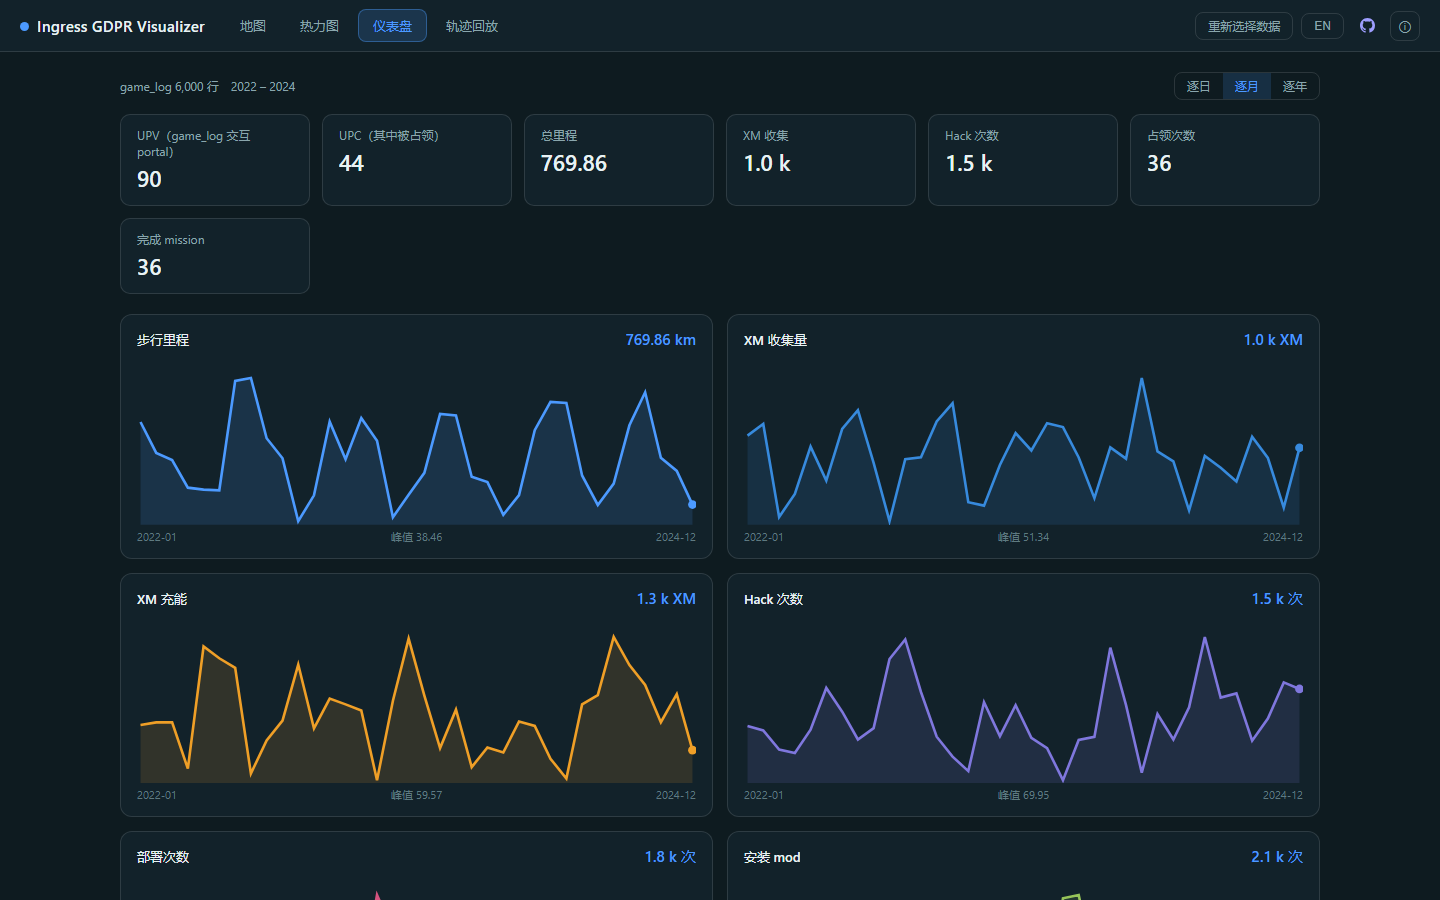
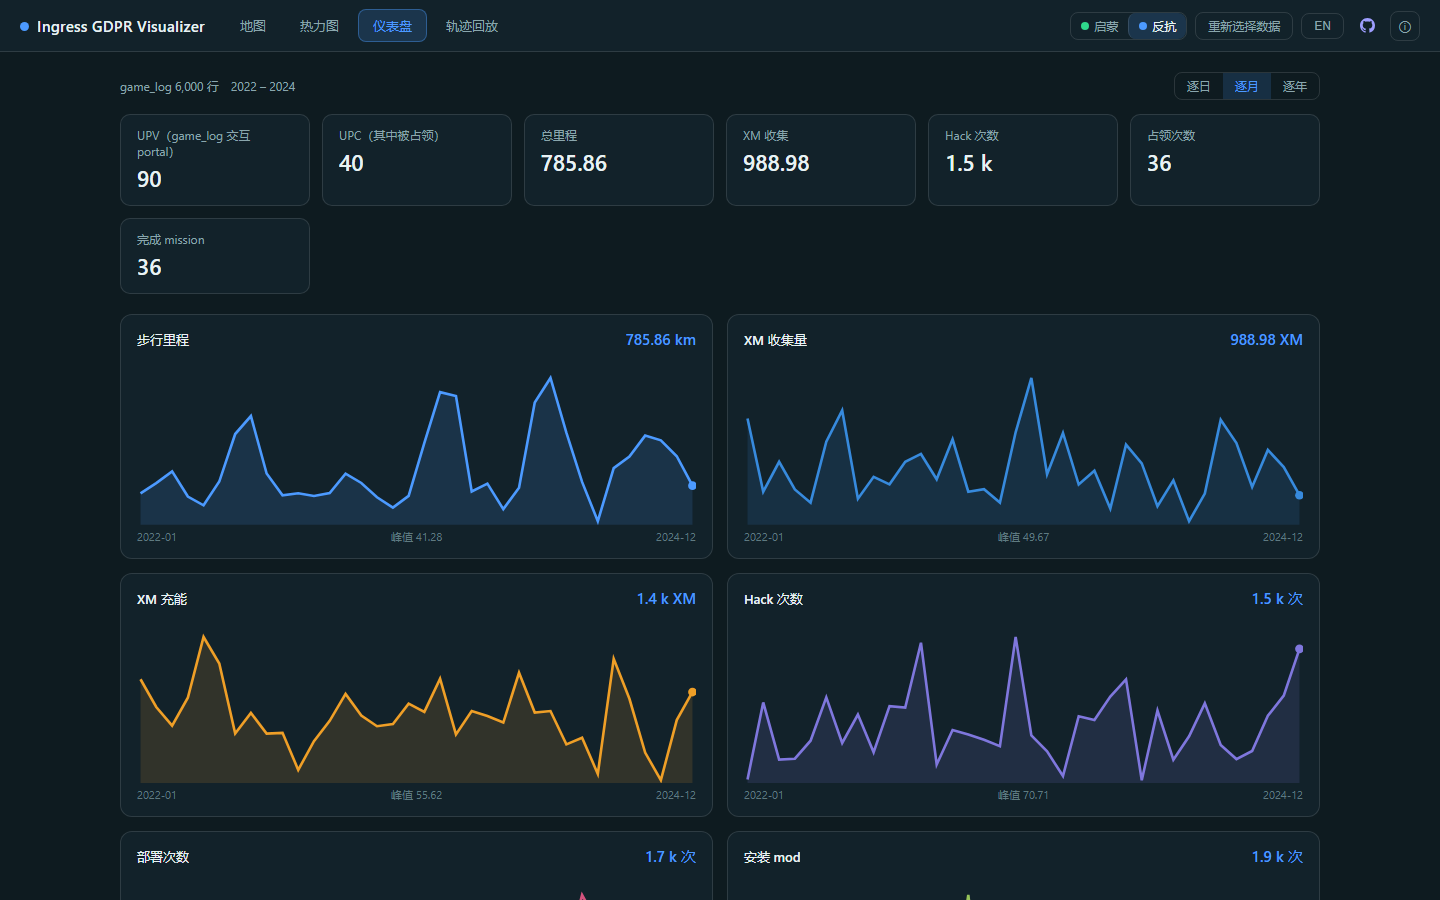
docs: refresh README and screenshots
- feature table now carries a date column and doubles as the changelog
- document trajectory playback and the faction theme
- drop the WIP IITC plugin section (kept as a single ROADMAP line) and
  dev-only script entries
- re-capture the six screenshots with synthetic demo data

diff --git a/README_EN.md b/README_EN.md
@@ -1,6 +1,6 @@
 # Ingress GDPR Visualizer
 
-> Turn your Niantic Ingress personal data export (GDPR export) into an interactive map, heatmap and dashboard.
+> Turn your Niantic Ingress personal data export (GDPR export) into an interactive map, heatmap, dashboard and trajectory playback.
 > **All parsing happens locally — your data is never uploaded to any server.**
 
 [中文文档](README.md) · [English](#screenshots)
@@ -9,7 +9,7 @@ This is a fan-made project and **contains no personal data**. You pick your own 
 
 ## Screenshots
 
-The screenshots below use **synthetic Guangzhou demo data** (generated by `npm run demo:data` — entirely fictional, contains no real personal data).
+The screenshots below use **synthetic Guangzhou demo data** (entirely fictional, contains no real personal data).
 
 | Map | Heatmap |
 | --- | --- |
@@ -19,23 +19,26 @@ The screenshots below use **synthetic Guangzhou demo data** (generated by `npm r
 | --- | --- |
 | ![Dashboard](docs/screenshots/dashboard.png) | ![Badges](docs/screenshots/dashboard-badges.png) |
 
-| Playback (placeholder) | Onboarding |
+| Playback | Onboarding |
 | --- | --- |
-| ![Playback placeholder](docs/screenshots/playback.png) | ![Data picker](docs/screenshots/onboarding.png) |
+| ![Playback](docs/screenshots/playback.png) | ![Data picker](docs/screenshots/onboarding.png) |
 
-## Features
+## Features & changelog
 
-| Page | Content |
-| --- | --- |
-| **Map** | UPV / UPC layers; 13 event categories (full real data, **zero sampling**); OPR suggested locations; Intel dark / light basemaps; per-portal hover stats (hacks, deploys, upgrades, mods, captures) |
-| **Heatmap** | Portal activity weighted by hacks / captures / deploys / upgrades, with a ticked colorbar; metrics can stack |
-| **Dashboard** | Up to 24 time series (distance, XM, MU, holding days, OPR...), daily / monthly / yearly views; hover for value, MoM and YoY; stat cards, Badges wall, Comm mentions and profile text |
-| **Playback** | Placeholder page (see ROADMAP) |
-| **General** | 中文 / English toggle, GitHub link and fan-site disclaimer popover, "change data" anytime, dark theme |
+Rows are ordered by date; this table doubles as the project's changelog (dates are when each feature landed).
+
+| Date | Page | Content |
+| --- | --- | --- |
+| 2026-11-12 | **Map** | UPV / UPC layers; 13 event categories (full real data, **zero sampling**); OPR suggested locations; Intel dark / light basemaps; per-portal hover stats (hacks, deploys, upgrades, mods, captures) |
+| 2026-11-12 | **Heatmap** | Portal activity weighted by hacks / captures / deploys / upgrades, with a ticked colorbar; metrics can stack |
+| 2026-11-12 | **Dashboard** | Up to 24 time series (distance, XM, MU, holding days, OPR...), daily / monthly / yearly views; hover for value, MoM and YoY; stat cards, Badges wall, Comm mentions and profile text |
+| 2026-11-12 | **General** | 中文 / English toggle, GitHub link and fan-site disclaimer popover, "change data" anytime, dark theme |
+| 2026-11-14 | **Playback** | Time-compression rates (1 hour / day / week / month per second); no interpolation across long gaps, dwell-stop aggregation; activity calendar and scrubber heat strip, single-day replay, follow-playhead, edge direction + distance; event points are never sampled |
+| 2026-11-14 | **General** | Faction theme (Enlightened / Resistance — UI accent and basemap switch live) |
 
 ### Two ways to load data
 
-If no pre-generated data exists, the app opens with a **data picker** (`?setup=1` forces it):
+If no pre-generated data exists, the app opens with a **data picker**:
 
 1. **Choose the whole export folder (recommended)**: the full experience — map, heatmap, complete dashboard, Badges, OPR, Comm.
 2. **Only the `game_log` file(s)**: lightweight — map, heatmap, and up to 10 event-count curves (hacks / deploys / upgrades / captures / links / fields...). Distance, XM, MU, Badges, OPR and Comm need the other files and are unavailable in this mode.
@@ -66,7 +69,7 @@ npm run dev            # http://127.0.0.1:5173
 The first launch shows the data picker; choose your GDPR export folder. To pre-generate data (e.g. for a static deployment), run `npm run ingest` first, then:
 
 ```bash
-npm run build          # output in dist/, data/ is copied in automatically
+npm run build          # output in dist/; only the five data files the app fetches are copied
 npm run preview        # preview the production build
 ```
 
@@ -85,7 +88,6 @@ Request a **personal data export (GDPR / Data Export)** from Niantic's official 
 | `npm run preview` | Preview the production build |
 | `npm run ingest -- --src <dir> [--out <dir>]` | Preprocess a GDPR export into `data/` |
 | `npm run catalog` | Refresh `src/data/badgeCatalog.js` (badge icon URL table from ingress.plus) |
-| `npm run demo:data` / `npm run demo:shots` | Generate synthetic demo data / re-capture README screenshots |
 
 ---
 
@@ -97,15 +99,16 @@ Request a **personal data export (GDPR / Data Export)** from Niantic's official 
 ├── docs/screenshots/        # README screenshots (synthetic demo data)
 ├── scripts/
 │   ├── ingest.mjs           # CLI: raw export → data/
-│   ├── generate-demo-data.mjs
-│   ├── capture-screenshots.mjs
 │   └── fetch-badge-catalog.mjs
 ├── src/
-│   ├── lib/ingestCore.js    # parsing core (shared by Node CLI and browser)
+│   ├── lib/ingestCore.js    # parsing core (Node CLI / browser)
 │   ├── dataContext.js       # pre-generated / in-browser data paths
+│   ├── faction.js           # faction theme (UI accent + basemap palette)
+│   ├── changelog.js         # onboarding changelog
 │   ├── i18n.jsx             # Chinese / English dictionary
 │   ├── data/                # Intel / light basemap styles, badge icon URL table
-│   └── components/          # map, heatmap, dashboard, onboarding, badges...
+│   └── components/          # map, heatmap, dashboard, playback, onboarding...
+├── .github/workflows/       # CI: build + dependency audit
 ├── data/                    # ⛔ generated locally, gitignored (personal data)
 └── dist/                    # ⛔ build output, gitignored
 ```
@@ -117,15 +120,16 @@ Request a **personal data export (GDPR / Data Export)** from Niantic's official 
 - Browser mode: **no files are uploaded** — everything is parsed in the page by `src/lib/ingestCore.js`;
 - CLI mode: only reads the `--src` directory and writes to `--out`; the **source directory is never modified**;
 - `data/`, `raw/`, `node_modules/` and `dist/` are all excluded by `.gitignore`;
-- Badge icons are hotlinked from [ingress.plus](https://ingress.plus/badges) and are not stored in this repository; map tiles come from [OpenFreeMap](https://openfreemap.org/) / OpenStreetMap.
+- Badge icons are hotlinked from [ingress.plus](https://ingress.plus/badges) and are not stored in this repository; map tiles come from [OpenFreeMap](https://openfreemap.org/) / OpenStreetMap;
+- `npm run build` copies only `meta.json`, `dashboard.json`, `portals.geojson`, `events.json` and `opr.geojson` into `dist/data` (`DATA-NOTES.md` and the raw export are never copied). `meta.json` still contains the profile / Comm text, and `events.json` / `portals.geojson` contain precise locations — **these are still real personal data**.
 
-> **About deployment**: this tool is designed for **local deployment**. The build output can technically be hosted on a static server, but a GDPR export contains sensitive personal information (precise locations, timestamps, e-mail, devices), so **online deployment is not recommended**.
+> **About deployment**: this tool is designed for **local deployment**. The build output can technically be hosted on a static server, but a GDPR export contains sensitive personal information (precise locations, timestamps, e-mail, devices), so **online deployment is not recommended** — the files in `dist/data` are your real data, so **never host `dist/` publicly**.
 
 ---
 
 ## ROADMAP
 
-- [ ] Trajectory playback
+- [x] Trajectory playback (time-compression rates, no interpolation across long gaps, dwell aggregation, activity calendar)
 - [ ] IITC plugin
 
 ---

diff --git a/README.md b/README.md
@@ -1,6 +1,6 @@
 # Ingress GDPR Visualizer
 
-> 把 Niantic Ingress 的个人数据导出（GDPR export）变成可交互的地图、热力图与仪表盘。
+> 把 Niantic Ingress 的个人数据导出（GDPR export）变成可交互的地图、热力图、仪表盘与轨迹回放。
 > **所有解析都在本地完成，数据不会上传到任何服务器。**
 
 [English](README_EN.md) · [中文](#快速开始)
@@ -9,7 +9,7 @@
 
 ## 截图
 
-以下截图使用**合成的广州示例数据**（`npm run demo:data` 生成，完全虚构，不含任何真实个人数据）。
+以下截图使用**合成的广州示例数据**（完全虚构，不含任何真实个人数据）。
 
 | 地图 | 热力图 |
 | --- | --- |
@@ -19,23 +19,26 @@
 | --- | --- |
 | ![仪表盘页](docs/screenshots/dashboard.png) | ![Badges](docs/screenshots/dashboard-badges.png) |
 
-| 轨迹回放（占位） | 开箱选数据 |
+| 轨迹回放 | 开箱选数据 |
 | --- | --- |
-| ![轨迹回放占位页](docs/screenshots/playback.png) | ![选数据屏](docs/screenshots/onboarding.png) |
+| ![轨迹回放页](docs/screenshots/playback.png) | ![选数据屏](docs/screenshots/onboarding.png) |
 
-## 功能
+## 功能与更新记录
 
-| 页面 | 内容 |
-| --- | --- |
-| **地图** | UPV / UPC 双图层；13 类事件分布（全量真实数据，**零抽稀**）；OPR 建议位置；intel 暗色 / 亮色双底图；逐 portal 悬浮统计（hack、插脚、抬脚、mod、占领次数） |
-| **热力图** | 按被 hack / 被占领 / 插脚 / 抬脚次数加权的 portal 热度，带刻度 colorbar，多指标可叠加 |
-| **仪表盘** | 最多 24 个时间序列（步数、XM、MU、驻守、OPR 等），逐日 / 逐月 / 逐年切换；悬停显示数值、环比、同比；统计卡、Badges 墙、Comm 提及与档案文本 |
-| **轨迹回放** | 占位页（见 ROADMAP） |
-| **通用** | 中 / 英双语切换、GitHub 链接与爱好者声明弹层、随时「重新选择数据」、深色主题 |
+下表按时间排列，同时作为本项目的更新日志（日期为功能落地时间）。
+
+| 日期 | 页面 | 内容 |
+| --- | --- | --- |
+| 2026-11-12 | **地图** | UPV / UPC 双图层；13 类事件分布（全量真实数据，**零抽稀**）；OPR 建议位置；intel 暗色 / 亮色双底图；逐 portal 悬浮统计（hack、插脚、抬脚、mod、占领次数） |
+| 2026-11-12 | **热力图** | 按被 hack / 被占领 / 插脚 / 抬脚次数加权的 portal 热度，带刻度 colorbar，多指标可叠加 |
+| 2026-11-12 | **仪表盘** | 最多 24 个时间序列（步数、XM、MU、驻守、OPR 等），逐日 / 逐月 / 逐年切换；悬停显示数值、环比、同比；统计卡、Badges 墙、Comm 提及与档案文本 |
+| 2026-11-12 | **通用** | 中 / 英双语切换、GitHub 链接与爱好者声明弹层、随时「重新选择数据」、深色主题 |
+| 2026-11-14 | **轨迹回放** | 时间压缩比速度档（1 小时 / 天 / 周 / 月每秒）；长间隔不插值、停留点聚合；活跃度日历与 scrubber 热条、单日重演、跟随播放头、出界方向与距离；事件点全量不抽稀 |
+| 2026-11-14 | **通用** | 阵营配色（启蒙 / 反抗，UI 与底图实时切换） |
 
 ### 两种数据装载方式
 
-打开应用时若没有预生成数据，会自动显示**选数据屏**（`?setup=1` 可强制模拟）：
+打开应用时若没有预生成数据，会自动显示**选数据屏**：
 
 1. **选择整个导出文件夹（推荐）**：完整体验——地图、热力图、完整仪表盘、Badges、OPR、Comm。
 2. **仅选择 `game_log` 文件**：轻量体验——地图、热力图，以及最多 10 条由事件时间戳统计出的曲线（hack / 插脚 / 抬脚 / 占领 / link / field 等）。步数、XM、MU、Badges、OPR 等依赖其它文件，此模式下不可用。
@@ -66,7 +69,7 @@ npm run dev            # http://127.0.0.1:5173
 首次打开会显示选数据屏；选择你的 GDPR 导出文件夹即可。若要预生成数据（例如部署静态站点），先跑 `npm run ingest`，再：
 
 ```bash
-npm run build          # 产物在 dist/，会自动带上 data/
+npm run build          # 产物在 dist/，会带上应用需要的 5 个数据文件
 npm run preview        # 本地预览构建产物
 ```
 
@@ -85,7 +88,6 @@ npm run preview        # 本地预览构建产物
 | `npm run preview` | 预览构建产物 |
 | `npm run ingest -- --src <dir> [--out <dir>]` | 预处理 GDPR 导出，生成 `data/` |
 | `npm run catalog` | 刷新 `src/data/badgeCatalog.js`（ingress.plus 徽章图标 URL 表） |
-| `npm run demo:data` / `npm run demo:shots` | 生成合成示例数据 / 重新截取 README 截图 |
 
 ---
 
@@ -97,15 +99,16 @@ npm run preview        # 本地预览构建产物
 ├── docs/screenshots/        # README 截图（合成示例数据）
 ├── scripts/
 │   ├── ingest.mjs           # CLI：读原始导出 → data/
-│   ├── generate-demo-data.mjs
-│   ├── capture-screenshots.mjs
 │   └── fetch-badge-catalog.mjs
 ├── src/
-│   ├── lib/ingestCore.js    # 解析内核（Node CLI 与浏览器共用）
+│   ├── lib/ingestCore.js    # 解析内核（Node CLI / 浏览器共用）
 │   ├── dataContext.js       # 预生成 / 浏览器本地解析两条数据路径
+│   ├── faction.js           # 阵营配色（UI 强调色 + 底图调色）
+│   ├── changelog.js         # 录入页「更新日志」
 │   ├── i18n.jsx             # 中英双语字典
 │   ├── data/                # intel / 亮色底图样式、徽章图标 URL 表
-│   └── components/          # 地图、热力图、仪表盘、Onboarding、Badges 等
+│   └── components/          # 地图、热力图、仪表盘、轨迹回放、Onboarding 等
+├── .github/workflows/       # CI：构建 + 依赖审计
 ├── data/                    # ⛔ 本地生成、已 gitignore（含个人数据）
 └── dist/                    # ⛔ 构建产物、已 gitignore
 ```
@@ -117,15 +120,16 @@ npm run preview        # 本地预览构建产物
 - 浏览器模式：**不上传任何文件**，全部在页面内用 `src/lib/ingestCore.js` 解析；
 - CLI 模式：只读取 `--src` 指定目录，输出写到 `--out`，**不写回源目录**；
 - `data/`、`raw/`、`node_modules/`、`dist/` 全部被 `.gitignore` 排除；
-- 徽章图标热链自 [ingress.plus](https://ingress.plus/badges)，不下载到本仓库；地图瓦片来自 [OpenFreeMap](https://openfreemap.org/) / OpenStreetMap。
+- 徽章图标热链自 [ingress.plus](https://ingress.plus/badges)，不下载到本仓库；地图瓦片来自 [OpenFreeMap](https://openfreemap.org/) / OpenStreetMap；
+- `npm run build` 只把 `meta.json`、`dashboard.json`、`portals.geojson`、`events.json`、`opr.geojson` 五个文件拷进 `dist/data`（`DATA-NOTES.md` 与原始导出不会被复制）。其中 `meta.json` 含档案 / Comm 原文、`events.json` 与 `portals.geojson` 含精确位置——**它们仍是真实个人数据**。
 
-> **关于部署**：本工具面向**本地部署**。虽然构建产物技术上可以放到线上静态服务器，但 GDPR 导出包含精确位置、时间、邮箱、设备等敏感个人信息，**不建议线上部署**。
+> **关于部署**：本工具面向**本地部署**。虽然构建产物技术上可以放到线上静态服务器，但 GDPR 导出包含精确位置、时间、邮箱、设备等敏感个人信息，**不建议线上部署**；`dist/data` 里的文件就是你的真实数据，**不要公开托管 `dist/`**。
 
 ---
 
 ## ROADMAP
 
-- [ ] 轨迹回放
+- [x] 轨迹回放（时间压缩比、长间隔不插值、停留聚合、活跃度日历）
 - [ ] IITC 插件
 
 ---
